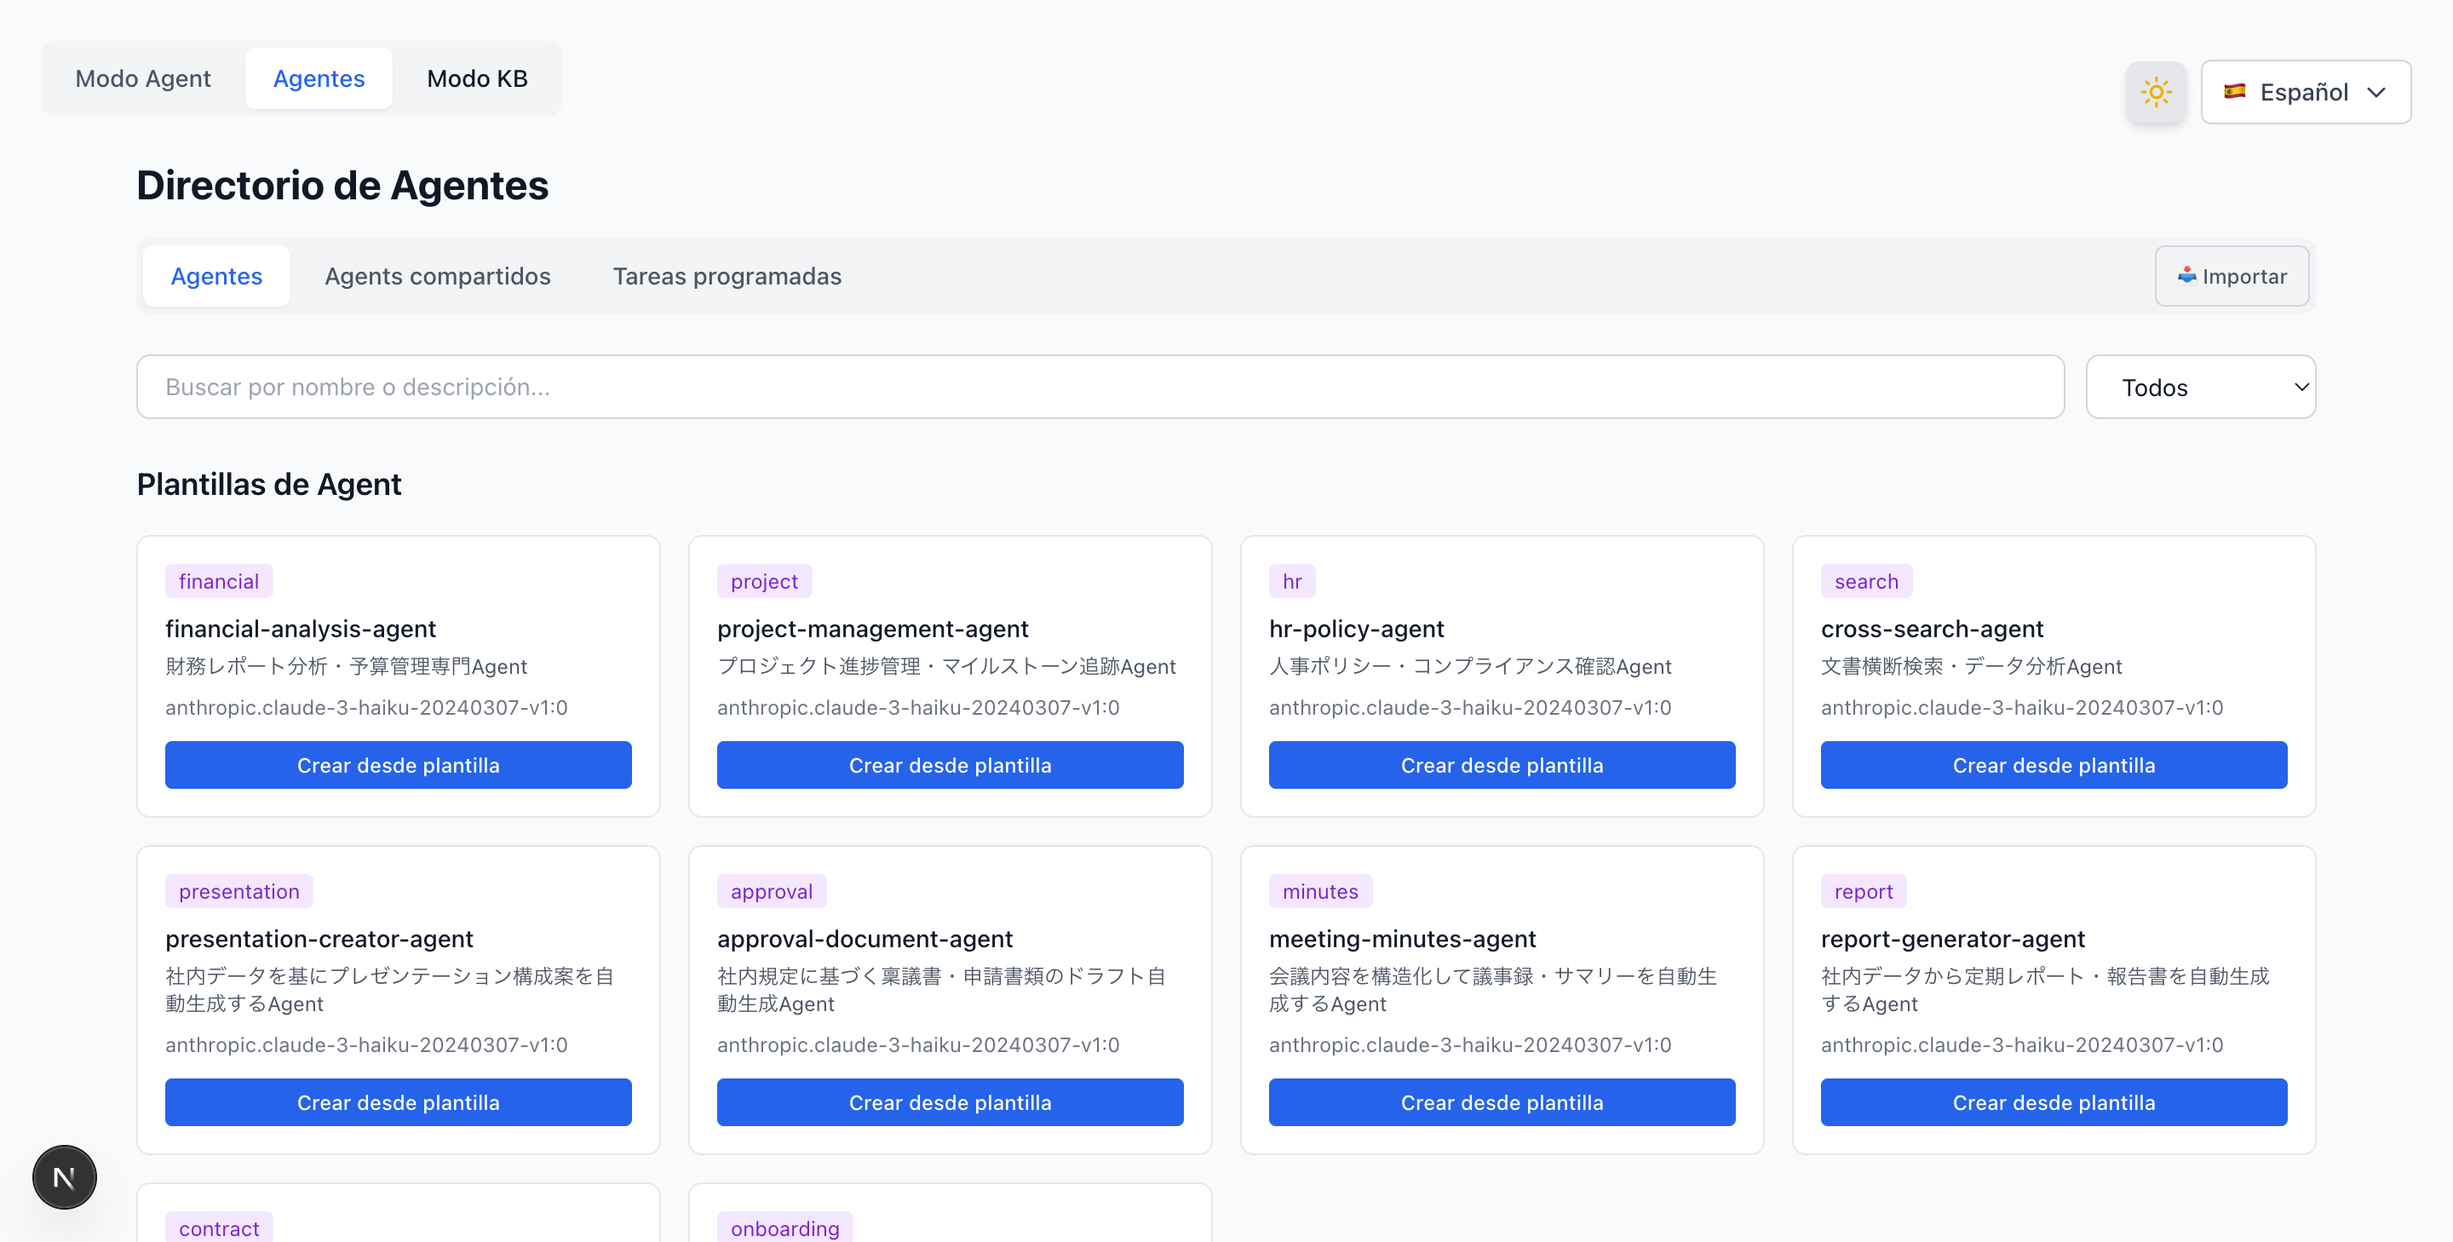
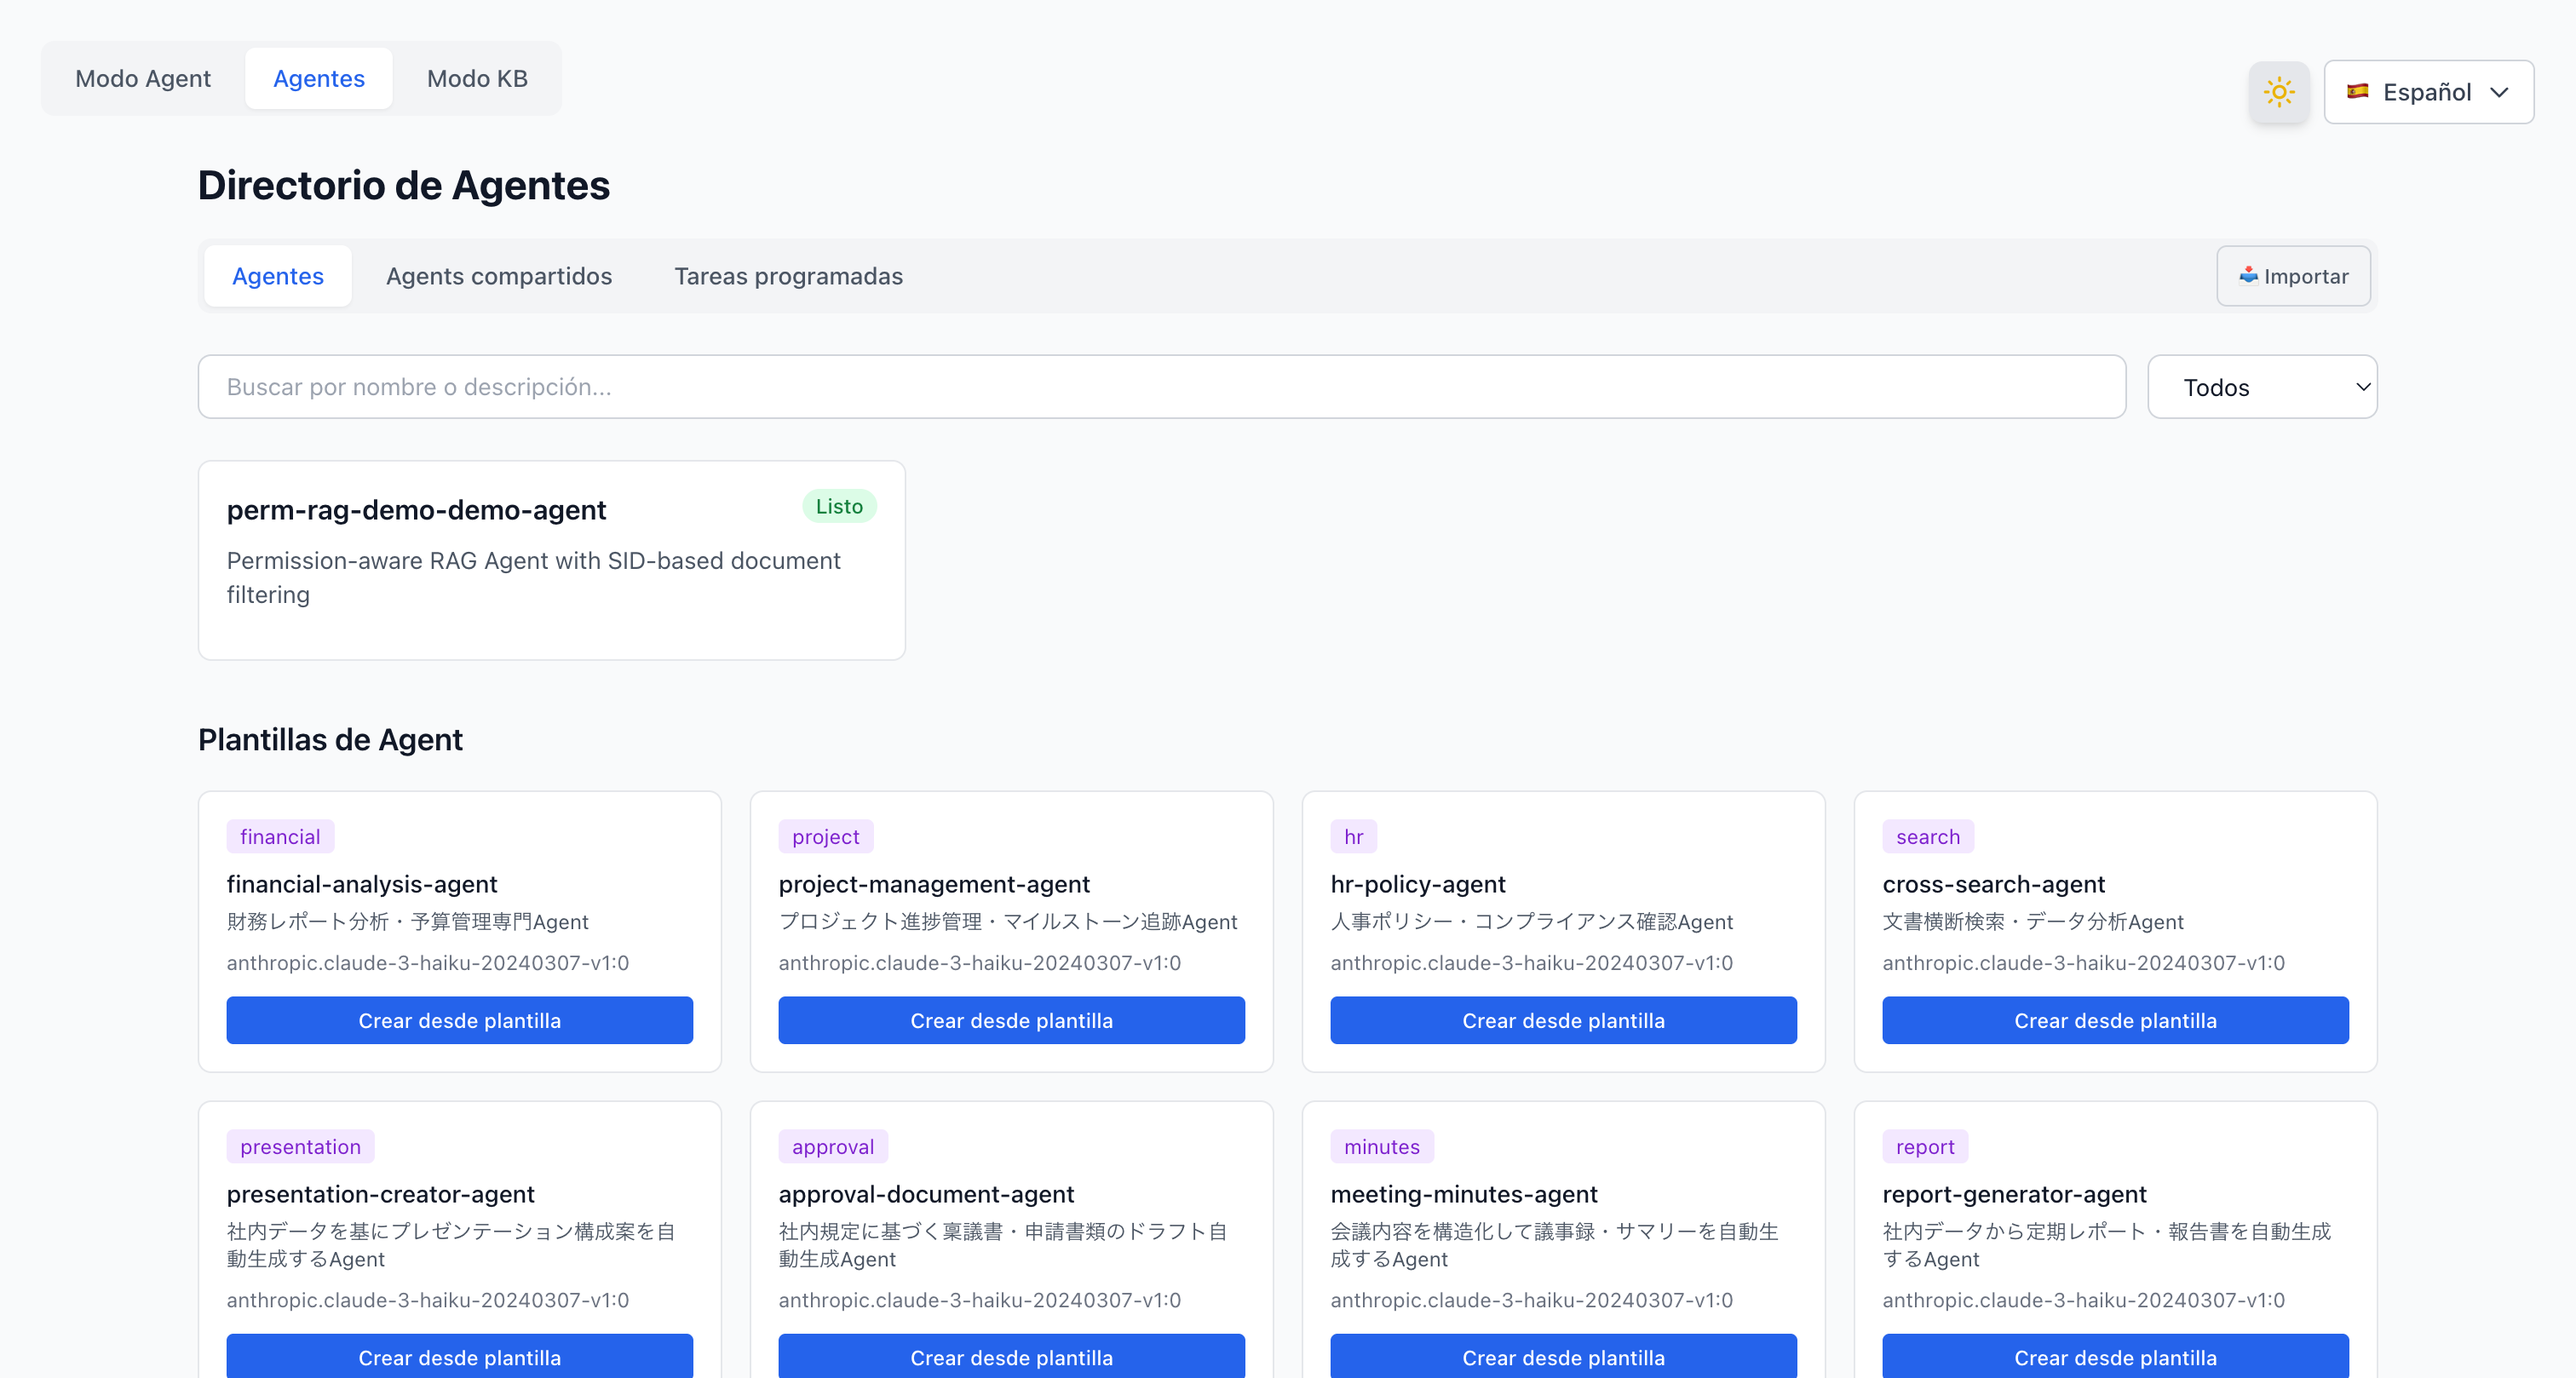
docs: add locale-specific chat citation + updated agent directory screenshots (8 languages)
- kb-mode-chat-citation-{locale}.png: localized citation labels (Referenced Documents, access badges)
- agent-directory-{locale}.png: refreshed from live deployment
- Updated all 8 READMEs to reference locale-specific citation screenshots

diff --git a/README.fr.md b/README.fr.md
@@ -122,7 +122,7 @@ Cliquer sur une carte Agent affiche un panneau de détail montrant l'ID de l'Age
 
 Les résultats de recherche RAG affichent les chemins de fichiers FSx et les badges de niveau d'accès (accessible à tous / administrateurs uniquement / groupes spécifiques). Pendant le chat, un bouton « 🔄 Retour à la sélection de workflow » retourne à la grille de cartes. Un bouton « ➕ » sur le côté gauche du champ de saisie de message démarre un nouveau chat.
 
-![Chat Response + Citation](docs/screenshots/kb-mode-chat-citation.png)
+![Chat Response + Citation](docs/screenshots/kb-mode-chat-citation-fr.png)
 
 ### Téléchargement d'images — Glisser-déposer + Sélecteur de fichiers (v3.1.0)
 

diff --git a/README.es.md b/README.es.md
@@ -122,7 +122,7 @@ Al hacer clic en una tarjeta de Agent se muestra un panel de detalle que muestra
 
 Los resultados de búsqueda RAG muestran las rutas de archivos FSx e insignias de nivel de acceso (accesible para todos / solo administradores / grupos específicos). Durante el chat, un botón "🔄 Volver a la selección de flujo de trabajo" regresa a la cuadrícula de tarjetas. Un botón "➕" en el lado izquierdo del campo de entrada de mensajes inicia un nuevo chat.
 
-![Chat Response + Citation](docs/screenshots/kb-mode-chat-citation.png)
+![Chat Response + Citation](docs/screenshots/kb-mode-chat-citation-es.png)
 
 ### Carga de imágenes — Arrastrar y soltar + Selector de archivos (v3.1.0)
 

diff --git a/README.ko.md b/README.ko.md
@@ -122,7 +122,7 @@ Agent 카드를 클릭하면 Agent ID, 상태, 모델, 버전, 생성일, 시스
 
 RAG 검색 결과는 FSx 파일 경로와 접근 레벨 배지(전체 접근 가능 / 관리자 전용 / 특정 그룹)를 표시합니다. 채팅 중 "🔄 워크플로우 선택으로 돌아가기" 버튼으로 카드 그리드로 돌아갈 수 있습니다. 메시지 입력 필드 왼쪽의 "➕" 버튼으로 새 채팅을 시작합니다.
 
-![Chat Response + Citation](docs/screenshots/kb-mode-chat-citation.png)
+![Chat Response + Citation](docs/screenshots/kb-mode-chat-citation-ko.png)
 
 ### 이미지 업로드 — 드래그 앤 드롭 + 파일 선택기 (v3.1.0)
 

diff --git a/README.de.md b/README.de.md
@@ -122,7 +122,7 @@ Ein Klick auf eine Agent-Karte zeigt ein Detailpanel mit Agent-ID, Status, Model
 
 RAG-Suchergebnisse zeigen FSx-Dateipfade und Zugriffsebenen-Badges (für alle zugänglich / nur Administratoren / bestimmte Gruppen). Während des Chats kehrt ein „🔄 Zurück zur Workflow-Auswahl"-Button zum Kartenraster zurück. Ein „➕"-Button auf der linken Seite des Nachrichteneingabefelds startet einen neuen Chat.
 
-![Chat Response + Citation](docs/screenshots/kb-mode-chat-citation.png)
+![Chat Response + Citation](docs/screenshots/kb-mode-chat-citation-de.png)
 
 ### Bild-Upload — Drag & Drop + Dateiauswahl (v3.1.0)
 

diff --git a/README.en.md b/README.en.md
@@ -126,7 +126,7 @@ Clicking an Agent card displays a detail panel showing Agent ID, status, model, 
 
 RAG search results display FSx file paths and access level badges (accessible to all / admin only / specific groups). During chat, a "🔄 Return to Workflow Selection" button returns to the card grid. A "➕" button on the left side of the message input field starts a new chat.
 
-![Chat Response + Citation](docs/screenshots/kb-mode-chat-citation.png)
+![Chat Response + Citation](docs/screenshots/kb-mode-chat-citation-en.png)
 
 ### Image Upload — Drag & Drop + File Picker (v3.1.0)
 

diff --git a/README.zh-TW.md b/README.zh-TW.md
@@ -122,7 +122,7 @@ Agent 模式顯示 14 張工作流程卡片（8 張研究 + 6 張輸出）。點
 
 RAG 搜尋結果顯示 FSx 檔案路徑和存取等級徽章（所有人可存取 / 僅管理員 / 特定群組）。聊天期間，「🔄 返回工作流程選擇」按鈕可返回卡片網格。訊息輸入欄位左側的「➕」按鈕可開始新的聊天。
 
-![Chat Response + Citation](docs/screenshots/kb-mode-chat-citation.png)
+![Chat Response + Citation](docs/screenshots/kb-mode-chat-citation-zh-TW.png)
 
 ### 圖片上傳 — 拖放 + 檔案選擇器（v3.1.0）
 

diff --git a/README.zh-CN.md b/README.zh-CN.md
@@ -122,7 +122,7 @@ Agent 模式显示 14 张工作流卡片（8 张研究 + 6 张输出）。点击
 
 RAG 搜索结果显示 FSx 文件路径和访问级别徽章（所有人可访问 / 仅管理员 / 特定组）。聊天过程中，"🔄 返回工作流选择"按钮可返回卡片网格。消息输入框左侧的"➕"按钮可开始新聊天。
 
-![Chat Response + Citation](docs/screenshots/kb-mode-chat-citation.png)
+![Chat Response + Citation](docs/screenshots/kb-mode-chat-citation-zh-CN.png)
 
 ### 图像上传 — 拖放 + 文件选择器（v3.1.0）
 
